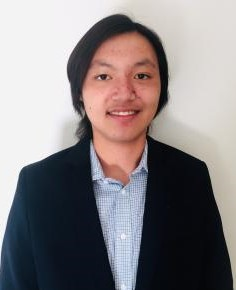
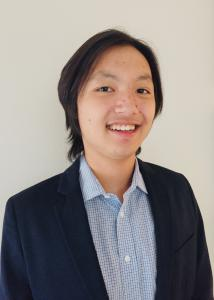
picrues

diff --git a/aboutus.html b/aboutus.html
@@ -77,7 +77,7 @@
             <div class="row">
                 <div class="one-of-two">
                     
-                        <img src="media/team-members/brandon-xu-final.jpg">
+                        <img src="media/team-members/360fx360f.png">
                         <h3>Brandon Xu</h3>
                         <p>Secretary</p>
                     
